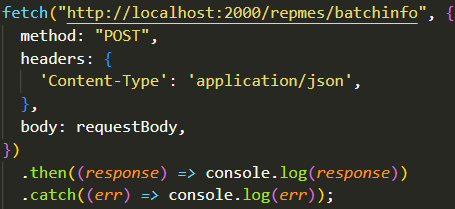
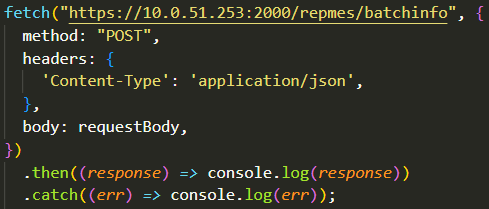
Added a return button to the batch methods page

diff --git a/app.js b/app.js
@@ -1,5 +1,6 @@
 //Native Nodejs modules
 const path = require("path");
+const https = require("https");
 
 //third-party packages
 const express = require("express");
@@ -13,6 +14,9 @@ const repmesRoutes = require("./routes/repmes");
 const mesRoutes = require("./routes/mesprod");
 const otherRoutes = require("./routes/others");
 const errorController = require("./controllers/404");
+
+const privateKey = fs.readFileSync("server.key");
+const certificate = fs.readFileSync("server.cert");
 
 const app = express();
 const accessLogStream = fs.createWriteStream(
@@ -57,4 +61,4 @@ app.use("/mes", mesRoutes);
 app.use(otherRoutes);
 app.use(errorController.get404);
 
-app.listen(2000);
+https.createServer({ key: privateKey, cert: certificate }, app).listen(2000);
